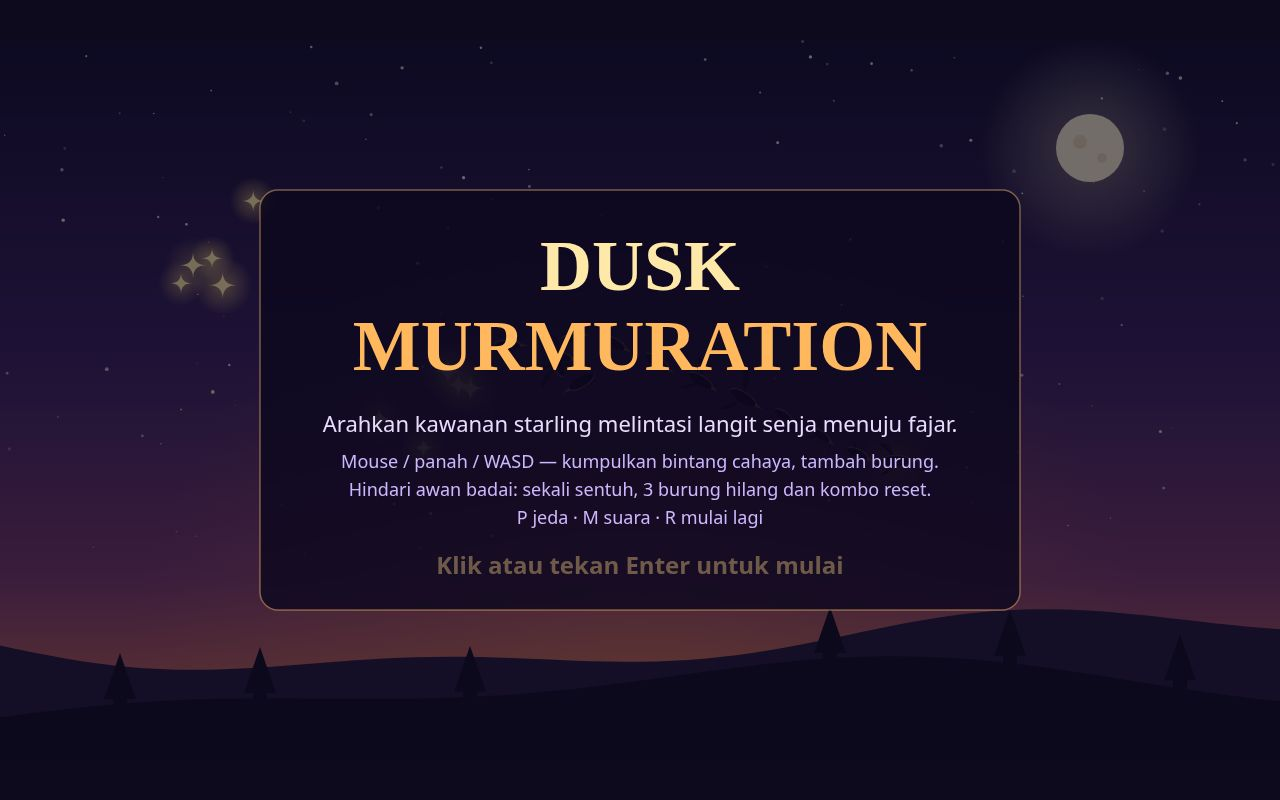
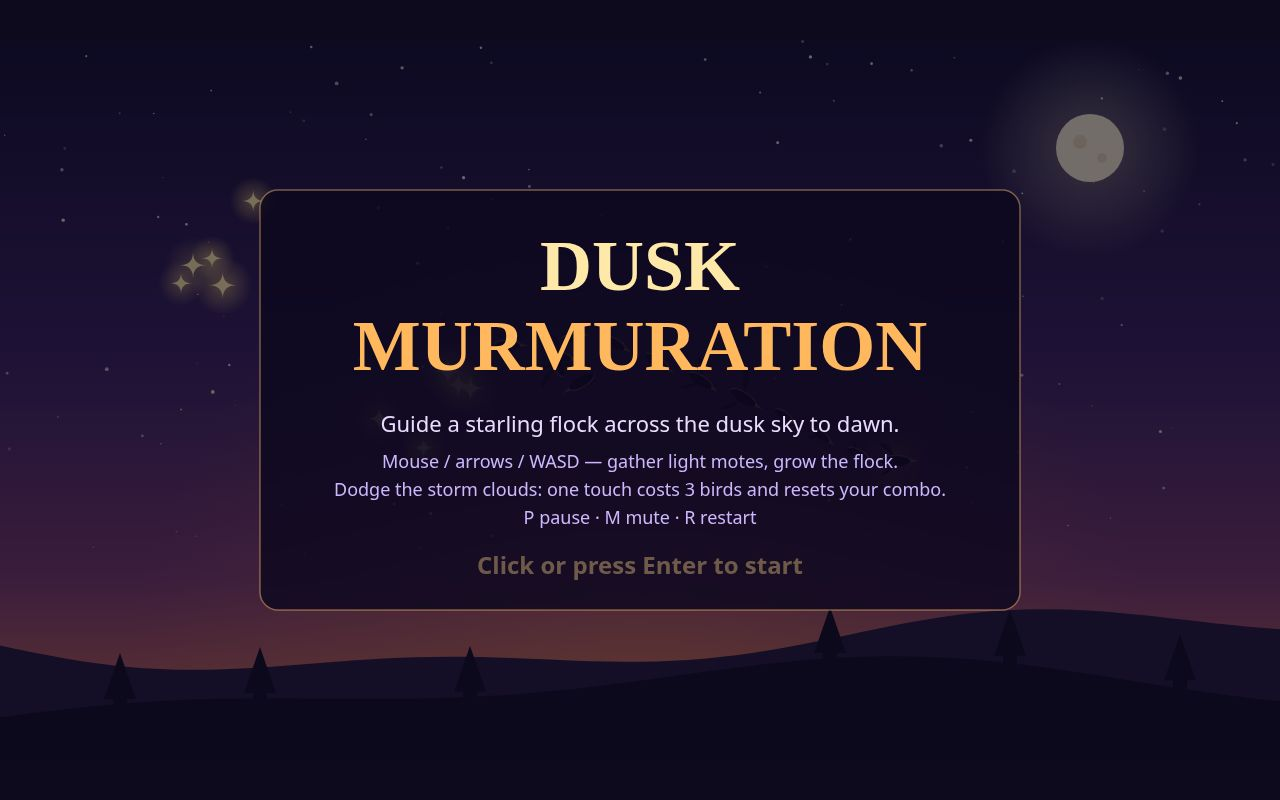
English UI + HUD fix + cloud texture
- All user-facing text in English (HUD, title, pause, win/lose,
  screen-reader status): Score/Birds/Night, DAWN BREAKS, THE FLOCK IS LOST
- Night bar narrowed 340->320 and recentered so the moon glyph no longer
  touches the combo badge (glyph now at x=458, badge ends x=444)
- Storm clouds: warm dusk rim on the lower edge + two darker swirl arcs
  (seeded, deterministic) so they read as weather, not smooth blobs
- Screenshots retaken, play shot byte-identical on retake

Changed region(s): [[0.25, 0.5, 0.75, 0.6562], [0.3438, 0.6875, 0.6562, 0.7188]]

diff --git a/game/src/render.js b/game/src/render.js
@@ -156,6 +156,26 @@ function drawClouds(ctx, state) {
     ctx.arc(c.x, cy - c.r * 0.28, c.r * 0.72, 0, Math.PI * 2);
     ctx.arc(c.x - c.r * 0.1, cy + 14, c.r * 0.7, 0, Math.PI * 2);
     ctx.fill();
+    // Texture: a warm rim along the lower edge (dusk light from the
+    // horizon) and two darker swirl arcs inside, so the cloud reads as
+    // weather rather than a smooth blob. Every offset comes from c.seed,
+    // so the texture is deterministic.
+    ctx.save();
+    ctx.strokeStyle = 'rgba(255,170,110,0.5)';
+    ctx.lineWidth = 3;
+    ctx.beginPath();
+    ctx.arc(c.x, cy + 8, c.r * 0.72, Math.PI * 0.15, Math.PI * 0.85);
+    ctx.stroke();
+    const sw = Math.sin(c.seed * 3.1) * 0.25;
+    ctx.strokeStyle = 'rgba(30,20,50,0.45)';
+    ctx.lineWidth = 5;
+    ctx.beginPath();
+    ctx.arc(c.x - c.r * 0.15, cy - c.r * 0.05, c.r * 0.45, Math.PI * (0.9 + sw), Math.PI * (1.9 + sw));
+    ctx.stroke();
+    ctx.beginPath();
+    ctx.arc(c.x + c.r * 0.2, cy + c.r * 0.12, c.r * 0.32, Math.PI * (1.1 - sw), Math.PI * (2.0 - sw));
+    ctx.stroke();
+    ctx.restore();
     // Lightning flickers inside the cloud when the flash is live.
     if (state.flash > 0) {
       const lx = c.x + Math.sin(c.seed * 7.3) * c.r * 0.4;
@@ -281,7 +301,7 @@ function drawWind(ctx, state) {
     ctx.fillStyle = '#ffd98a';
     ctx.font = `bold 26px ${UI_FONT}`;
     ctx.textAlign = 'center';
-    ctx.fillText(fromLeft ? '→ ANGIN!' : 'ANGIN! ←', x + (fromLeft ? 60 : -60), 120);
+    ctx.fillText(fromLeft ? '→ WIND!' : 'WIND! ←', x + (fromLeft ? 60 : -60), 120);
     ctx.restore();
   }
   if (wind.state === 'gust') {
@@ -310,14 +330,14 @@ function drawHud(ctx, state) {
   ctx.fillStyle = '#fff3d0';
   ctx.font = `bold 24px ${UI_FONT}`;
   ctx.textAlign = 'left';
-  ctx.fillText(`Skor ${state.score}`, 30, 37);
+  ctx.fillText(`Score ${state.score}`, 30, 37);
   // Birds.
   ctx.fillStyle = 'rgba(10,6,24,0.45)';
   roundRect(ctx, 238, 14, 120, 44, 10);
   ctx.fill();
   ctx.fillStyle = '#cfe0ff';
   ctx.font = `20px ${UI_FONT}`;
-  ctx.fillText(`Burung ${birdCount(state.flock)}`, 252, 37);
+  ctx.fillText(`Birds ${birdCount(state.flock)}`, 252, 37);
   // Combo badge.
   if (state.combo > 1) {
     ctx.fillStyle = '#ffb020';
@@ -327,10 +347,11 @@ function drawHud(ctx, state) {
     ctx.font = `bold 22px ${UI_FONT}`;
     ctx.fillText(`x${state.combo}`, 388, 37);
   }
-  // Night progress: dusk → dawn.
-  const barX = W / 2 - 170;
+  // Night progress: dusk → dawn. Kept clear of the combo badge (which ends
+  // at x=444) by centring a 320-wide bar: the moon glyph sits at x=458.
+  const barX = W / 2 - 160;
   const barY = 20;
-  const barW = 340;
+  const barW = 320;
   ctx.fillStyle = 'rgba(10,6,24,0.55)';
   roundRect(ctx, barX - 6, barY - 6, barW + 12, 40, 12);
   ctx.fill();
@@ -348,7 +369,7 @@ function drawHud(ctx, state) {
   ctx.fillText('☀', barX + barW + 22, barY + 15);
   ctx.fillStyle = 'rgba(255,243,208,0.9)';
   ctx.font = `13px ${UI_FONT}`;
-  ctx.fillText(state.nightT >= 1 ? 'Fajar!' : `Malam ${Math.floor(state.nightT * 100)}%`, barX + barW / 2, barY + 48);
+  ctx.fillText(state.nightT >= 1 ? 'Dawn!' : `Night ${Math.floor(state.nightT * 100)}%`, barX + barW / 2, barY + 48);
   // Mute button.
   ctx.fillStyle = state.muted ? 'rgba(255,176,32,0.85)' : 'rgba(10,6,24,0.45)';
   roundRect(ctx, MUTE_BUTTON.x, MUTE_BUTTON.y, MUTE_BUTTON.w, MUTE_BUTTON.h, 8);
@@ -388,17 +409,17 @@ function drawTitle(ctx, state) {
   ctx.fillText('MURMURATION', W / 2, 330);
   ctx.fillStyle = '#e8ddff';
   ctx.font = `22px ${UI_FONT}`;
-  ctx.fillText('Arahkan kawanan starling melintasi langit senja menuju fajar.', W / 2, 392);
+  ctx.fillText('Guide a starling flock across the dusk sky to dawn.', W / 2, 392);
   ctx.fillStyle = '#cbb8ff';
   ctx.font = `18px ${UI_FONT}`;
-  ctx.fillText('Mouse / panah / WASD — kumpulkan bintang cahaya, tambah burung.', W / 2, 428);
-  ctx.fillText('Hindari awan badai: sekali sentuh, 3 burung hilang dan kombo reset.', W / 2, 456);
-  ctx.fillText('P jeda · M suara · R mulai lagi', W / 2, 484);
+  ctx.fillText('Mouse / arrows / WASD — gather light motes, grow the flock.', W / 2, 428);
+  ctx.fillText('Dodge the storm clouds: one touch costs 3 birds and resets your combo.', W / 2, 456);
+  ctx.fillText('P pause · M mute · R restart', W / 2, 484);
   ctx.fillStyle = '#ffd98a';
   ctx.font = `bold 24px ${UI_FONT}`;
   const blink = 0.6 + 0.4 * Math.sin(state.time * 3);
   ctx.globalAlpha = blink;
-  ctx.fillText('Klik atau tekan Enter untuk mulai', W / 2, 534);
+  ctx.fillText('Click or press Enter to start', W / 2, 534);
   ctx.restore();
 }
 
@@ -409,10 +430,10 @@ function drawPaused(ctx) {
   ctx.textAlign = 'center';
   ctx.fillStyle = '#ffe9a8';
   ctx.font = `bold 44px ${TITLE_FONT}`;
-  ctx.fillText('Jeda', W / 2, H / 2 - 18);
+  ctx.fillText('Paused', W / 2, H / 2 - 18);
   ctx.fillStyle = '#e8ddff';
   ctx.font = `20px ${UI_FONT}`;
-  ctx.fillText('Tekan P atau klik untuk lanjut', W / 2, H / 2 + 34);
+  ctx.fillText('Press P or click to resume', W / 2, H / 2 + 34);
   ctx.restore();
 }
 
@@ -423,20 +444,20 @@ function drawWon(ctx, state) {
   ctx.textAlign = 'center';
   ctx.fillStyle = '#ffe9a8';
   ctx.font = `bold 64px ${TITLE_FONT}`;
-  ctx.fillText('FAJAR TIBA', W / 2, 224);
+  ctx.fillText('DAWN BREAKS', W / 2, 224);
   ctx.fillStyle = '#e8ddff';
   ctx.font = `22px ${UI_FONT}`;
-  ctx.fillText('Kawananmu bertahan sampai pagi. Langit cerah lagi.', W / 2, 272);
+  ctx.fillText('Your flock survived until dawn.', W / 2, 272);
   ctx.fillStyle = '#fff3d0';
   ctx.font = `bold 30px ${UI_FONT}`;
-  ctx.fillText(`Skor akhir  ${state.score}`, W / 2, 336);
+  ctx.fillText(`Final score  ${state.score}`, W / 2, 336);
   ctx.font = `22px ${UI_FONT}`;
   ctx.fillStyle = '#cfe0ff';
-  ctx.fillText(`Bintang terkumpul  ${state.motesCollected}   ·   Kombo terbaik  x${state.bestCombo}`, W / 2, 384);
-  ctx.fillText(`Burung tersisa  ${birdCount(state.flock)}   ·   Burung hilang  ${state.birdsLost}`, W / 2, 420);
+  ctx.fillText(`Motes gathered  ${state.motesCollected}   ·   Best combo  x${state.bestCombo}`, W / 2, 384);
+  ctx.fillText(`Birds left  ${birdCount(state.flock)}   ·   Birds lost  ${state.birdsLost}`, W / 2, 420);
   ctx.fillStyle = '#ffd98a';
   ctx.font = `bold 24px ${UI_FONT}`;
-  ctx.fillText('Tekan R atau klik untuk main lagi', W / 2, 500);
+  ctx.fillText('Press R or click to play again', W / 2, 500);
   ctx.restore();
 }
 
@@ -447,19 +468,19 @@ function drawLost(ctx, state) {
   ctx.textAlign = 'center';
   ctx.fillStyle = '#ff9a7a';
   ctx.font = `bold 60px ${TITLE_FONT}`;
-  ctx.fillText('KAWANAN HILANG', W / 2, 244);
+  ctx.fillText('THE FLOCK IS LOST', W / 2, 244);
   ctx.fillStyle = '#e8ddff';
   ctx.font = `22px ${UI_FONT}`;
-  ctx.fillText('Badai mengambil burung terakhir sebelum fajar.', W / 2, 292);
+  ctx.fillText('The storm took the last bird before dawn.', W / 2, 292);
   ctx.fillStyle = '#fff3d0';
   ctx.font = `bold 30px ${UI_FONT}`;
-  ctx.fillText(`Skor  ${state.score}`, W / 2, 356);
+  ctx.fillText(`Score  ${state.score}`, W / 2, 356);
   ctx.font = `22px ${UI_FONT}`;
   ctx.fillStyle = '#cfe0ff';
-  ctx.fillText(`Bintang terkumpul  ${state.motesCollected}   ·   Kombo terbaik  x${state.bestCombo}`, W / 2, 404);
+  ctx.fillText(`Motes gathered  ${state.motesCollected}   ·   Best combo  x${state.bestCombo}`, W / 2, 404);
   ctx.fillStyle = '#ffd98a';
   ctx.font = `bold 24px ${UI_FONT}`;
-  ctx.fillText('Tekan R atau klik untuk main lagi', W / 2, 480);
+  ctx.fillText('Press R or click to play again', W / 2, 480);
   ctx.restore();
 }
 

diff --git a/game/src/main.js b/game/src/main.js
@@ -46,12 +46,12 @@ function startGame() {
   const input = createInput(canvas);
   let state = createWorld(freshSeed());
   let lastPhase = state.phase;
-  setStatus('Dusk Murmuration: tekan Enter atau klik untuk mulai.');
+  setStatus('Dusk Murmuration: press Enter or click to start.');
 
   function restart() {
     state = createWorld(freshSeed());
     state.phase = 'playing';
-    setStatus('Bermain: kumpulkan bintang, hindari awan badai.');
+    setStatus('Playing: gather light motes, dodge the storm clouds.');
   }
 
   function toggleMute() {
@@ -76,7 +76,7 @@ function startGame() {
     }
     if (state.phase === 'title') {
       state.phase = 'playing';
-      setStatus('Bermain: kumpulkan bintang, hindari awan badai.');
+      setStatus('Playing: gather light motes, dodge the storm clouds.');
     } else if (state.phase === 'paused') {
       state.phase = 'playing';
     } else if (state.phase === 'won' || state.phase === 'lost') {
@@ -100,7 +100,7 @@ function startGame() {
       updateAmbient(state, dt);
       if (wasPressed(input, 'Enter') || wasPressed(input, 'Space')) {
         state.phase = 'playing';
-        setStatus('Bermain: kumpulkan bintang, hindari awan badai.');
+        setStatus('Playing: gather light motes, dodge the storm clouds.');
       }
     } else if (state.phase === 'playing') {
       const dir = moveDirection(input);
@@ -112,7 +112,7 @@ function startGame() {
       updateWorld(state, steer, dt, audio);
       if (wasPressed(input, 'KeyP') || wasPressed(input, 'Escape')) {
         state.phase = 'paused';
-        setStatus('Jeda.');
+        setStatus('Paused.');
       }
     } else if (state.phase === 'paused') {
       if (wasPressed(input, 'KeyP') || wasPressed(input, 'Escape') || wasPressed(input, 'Enter')) {
@@ -123,8 +123,8 @@ function startGame() {
     }
 
     if (state.phase !== lastPhase) {
-      if (state.phase === 'won') setStatus(`Fajar tiba! Skor akhir ${state.score}.`);
-      if (state.phase === 'lost') setStatus(`Kawanan hilang. Skor ${state.score}. Tekan R untuk main lagi.`);
+      if (state.phase === 'won') setStatus(`Dawn breaks! Final score ${state.score}.`);
+      if (state.phase === 'lost') setStatus(`The flock is lost. Score ${state.score}. Press R to play again.`);
       lastPhase = state.phase;
     }
 
